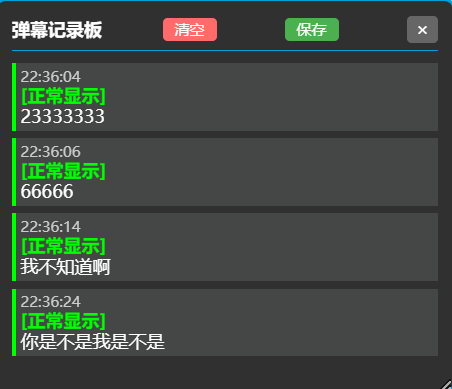
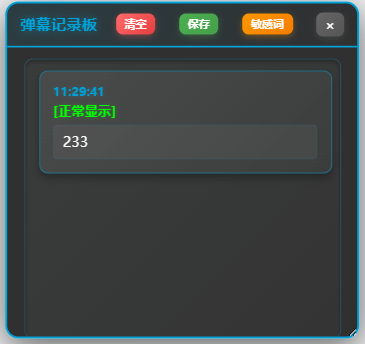
docs(readme): 更新 README 文档内容与结构
-重新组织功能介绍部分，将核心功能与新增功能分类展示
- 添加敏感词管理与高亮显示等 3.0 版本新功能说明
- 优化效果展示图片描述，新增管理页面与 CSV 导出示例
- 补充敏感词管理器使用方法和配置选项说明
- 更新代码实现与自定义配置部分，适配 3.0 新增功能
- 增加关于敏感词检测性能与本地存储限制的注意事项
- 删除重复内容，统一文档风格与格式

Changed region(s): [[0.0, 0.0, 1.0, 1.0], [0.9041, 0.2326, 0.9342, 0.4942], [0.9041, 0.1744, 0.9342, 0.2035]]

diff --git a/README.md b/README.md
@@ -1,3 +1,7 @@
+# 弹幕反诈脚本
+
+这是一个用于拦截和处理发送到 Bilibili 直播间的弹幕请求的脚本。它可以**检测弹幕发送**并在屏幕上显示相应的提示信息。提示你在直播间发送的**弹幕是否被秒删**，**被什么秒删**，有助于用户规避河蟹词，**避免看似发了弹幕结果主播根本看不到**，不被发送成功的谎言所欺骗！
+
 # 遥遥领先的阿瓦隆系统
 
 你可能遇到过一种情景，你明明**重复发送了很多次弹幕**，而且你也亲眼看到了弹幕**发送成功**在屏幕上显示，但是**主播就是不对你的弹幕有所回复**，哪怕是**没几个人的小主播**直播间。  
@@ -14,47 +18,35 @@
 
 [点我安装](https://greasyfork.org/zh-CN/scripts/516801-[哔哩哔哩直播]-弹幕反诈与防河蟹)
 
-# 弹幕反诈脚本
-
-这是一个用于拦截和处理发送到 Bilibili 直播间的弹幕请求的脚本。它可以**检测弹幕发送**并在屏幕上显示相应的提示信息。提示你在直播间发送的**弹幕是否被秒删**，**被什么秒删**，有助于用户规避河蟹词，**避免看似发了弹幕结果主播根本看不到**，不被发送成功的谎言所欺骗！  
-
-脚本修改自 TGSAN-哔哩哔哩直播弹幕反诈 ，增添了主播屏蔽弹幕发送失败时的相关信息提示，提示信息更加人性化。  
-
-[原脚本作者](https://greasyfork.org/zh-CN/scripts/488621-哔哩哔哩直播弹幕反诈。)
-
 ## 功能
 
 ### 核心功能
-- 拦截发送到 `api.live.bilibili.com/msg/send` 的弹幕请求。
-- 根据服务器返回的信息，判断弹幕是否发送失败，如果发送成功，则提示发送成功（**可在代码中关闭此回调**）。
-- 在弹幕发送失败时，在屏幕上显示提示信息（**仅在全屏模式生效**）。
-- 弹幕从左侧固定位置开始向右滚动，被**主播**吃掉为**蓝色**，被**系统**吃掉为**绿色**。可修改代码实现自定义颜色，支持16进制颜色代码和颜色名称。
-- 支持自定义弹幕。
-- **重要提示！！！系统权限高于主播**，当出现河蟹关键词时**系统会优先删除**，即便主播设置了系统同样的关键词。
+- **弹幕拦截检测**：拦截发送到 `api.live.bilibili.com/msg/send` 的弹幕请求
+- **智能状态判断**：根据服务器返回的信息，判断弹幕是否发送失败，如果发送成功，则提示发送成功（**可在代码中关闭此回调**）
+- **可视化提示**：在弹幕发送失败时，在屏幕上显示提示信息（**仅在全屏模式生效**）
+- **滚动动画**：弹幕从左侧固定位置开始向右滚动，被**主播**吃掉为**蓝色**，被**系统**吃掉为**绿色**。可修改代码实现自定义颜色，支持16进制颜色代码和颜色名称
+- **自定义弹幕**：支持自定义弹幕内容和样式
 
-### 2.0新增功能
-
-#### 1. 弹幕内容记录与输出
+### 弹幕记录与监控
 - **控制台输出**：所有发送的弹幕内容都会在浏览器控制台显示，包括：
   - 系统屏蔽弹幕：显示为 "系统屏蔽弹幕: [内容]"
   - 主播屏蔽弹幕：显示为 "主播屏蔽弹幕: [内容]"  
   - 正常弹幕：显示为 "正常弹幕: [内容]"
 - **实时监控**：监控每一条发送弹幕并对其核验，确保其成功发送成功
+- **浮动弹幕记录板**：
+  - **可视化记录**：在页面右上角显示浮动文本框，实时记录所有弹幕发送情况
+  - **智能分类**：用不同颜色标识弹幕状态
+    - 🔴 系统屏蔽（红色边框）
+    - 🟠 主播屏蔽（橙色边框）
+    - 🟢 正常显示（绿色边框）
+  - **时间戳记录**：每条记录都包含精确的发送时间
+  - **交互功能**：
+    - 可拖拽移动位置
+    - 可调整大小
+    - 一键清空记录
+    - 一键关闭面板
 
-#### 2. 浮动弹幕记录板
-- **可视化记录**：在页面右上角显示浮动文本框，实时记录所有弹幕发送情况
-- **智能分类**：用不同颜色标识弹幕状态
-  - 🔴 系统屏蔽（红色边框）
-  - 🟠 主播屏蔽（橙色边框）
-  - 🟢 正常显示（绿色边框）
-- **时间戳记录**：每条记录都包含精确的发送时间
-- **交互功能**：
-  - 可拖拽移动位置
-  - 可调整大小
-  - 一键清空记录
-  - 一键关闭面板
-
-#### 3. 弹幕记录保存功能
+### 数据保存与分析
 - **一键保存**：点击"保存"按钮即可下载所有弹幕记录
 - **详细统计**：保存文件包含完整的统计信息
   - 系统屏蔽弹幕数量
@@ -63,6 +55,25 @@
   - 总记录数
 - **文件格式**：保存为UTF-8编码的文本文件，文件名包含时间戳
 - **可读性强**：格式化输出，便于后续分析和查看
+
+### 敏感词管理（3.0版本新增）
+- **智能检测**：自动检测弹幕中的敏感词，支持模糊匹配和精确匹配
+- **可视化高亮**：敏感词在弹幕记录中以高亮形式显示，便于快速识别
+- **自定义词库**：支持添加、删除自定义敏感词，构建个人专属词库
+- **配置管理**：提供丰富的配置选项
+  - 启用/禁用敏感词检测
+  - 区分大小写设置
+  - 模糊匹配开关
+  - 记录板容量限制
+- **本地存储**：配置自动保存到本地，刷新页面后配置不丢失
+- **一键重置**：支持一键恢复默认配置和敏感词列表
+
+### 敏感词高亮显示（3.0版本新增）
+- **实时高亮**：被屏蔽的弹幕中的敏感词会以特殊样式高亮显示
+- **多色标识**：使用黄色背景、红色文字、加粗字体等样式突出显示
+- **智能识别**：自动识别弹幕中的敏感词并标记位置
+- **可定制样式**：支持自定义高亮颜色、字体样式等显示效果
+- **检测提示**：在弹幕记录中显示"⚠ 检测到敏感词"提示信息
 
 ## 效果展示
 
@@ -75,8 +86,12 @@
 - ![全屏效果展示](./img/全屏效果展示.png)
 - 悬浮提示框示例  
 - ![悬浮提示框](./img/提示框.png)
-- 保存文件示例  
+- 配置管理示例
+- ![管理页面](./img/管理页面.png)
+- 保存文件示例(txt)  
 - ![保存文件示例](./img/保存示例.png)
+- 保存文件示例(csv)
+- ![保存文件示例](./img/csv导出.png)
 
 
 ## 使用方法
@@ -109,7 +124,22 @@
   - 每条弹幕的详细信息和时间戳
   - 完整的统计数据分析
   - 便于阅读的格式化输出
-- **文件命名**：自动生成带时间戳的文件名，如 `弹幕记录_2024-01-01T12-00-00.txt`
+
+#### 敏感词管理器使用（3.0版本新增）
+- **打开管理器**：点击弹幕记录板中的"敏感词"按钮打开管理界面
+- **添加敏感词**：
+  - 在输入框中输入要添加的敏感词
+  - 点击"添加"按钮或按回车键确认
+  - 支持中文、英文、数字等各种字符
+- **删除敏感词**：在敏感词列表中点击对应词条右侧的"删除"按钮
+- **配置选项**：
+  - **启用检测**：勾选后启用敏感词检测功能
+  - **区分大小写**：勾选后敏感词检测会区分大小写
+  - **模糊匹配**：勾选后支持部分匹配（包含检测）
+  - **默认显示记录板**：勾选后页面加载时自动显示弹幕记录板
+  - **记录容量**：设置弹幕记录板最大保存记录数（默认50条）
+- **保存配置**：点击"保存配置"按钮保存所有设置
+- **重置设置**：点击"重置默认"按钮恢复所有默认配置
 
 ## 代码说明
 
@@ -118,12 +148,12 @@
 - **拦截请求**: 重写 `fetch` 函数以拦截特定的请求，用于检测弹幕是否发送成功。
 - **显示信息**: 使用固定位置的 `div` 元素在屏幕上显示消息，并通过 `requestAnimationFrame` 实现从左到右的滚动效果。
 
-### 2.0新增功能实现
-- **弹幕内容提取**: 在修改响应数据前解析 `mode_info.extra` 字段，提取弹幕内容
-- **浮动面板**: 使用动态创建的 DOM 元素构建可交互的记录面板
-- **拖拽功能**: 通过鼠标事件实现面板的拖拽移动
-- **数据保存**: 使用 Blob API 和 URL.createObjectURL 实现文件下载功能
-- **智能统计**: 实时统计各类弹幕数量，提供详细的数据分析
+### 3.0新增功能实现
+- **敏感词检测引擎**: 实现高效的敏感词检测算法，支持模糊匹配和精确匹配
+- **高亮显示系统**: 使用HTML标签和CSS样式实现敏感词的可视化高亮
+- **配置管理系统**: 基于localStorage的配置持久化存储和实时更新机制
+- **交互式管理界面**: 使用模态框和动态DOM操作构建用户友好的管理界面
+- **智能词库管理**: 支持动态添加、删除敏感词，并提供重复检测和验证机制
 
 ## 自定义配置
 
@@ -134,17 +164,15 @@
 - **起始位置**: 同上，详见代码注释。
 - **重复次数**: 同上，详见代码注释。
 
-### 2.0新增功能配置
-- **记录板样式**: 可修改 `createDanmuLogBox` 函数中的样式参数
-  - 位置：`top` 和 `right` 属性
-  - 大小：`width` 和 `height` 属性
-  - 颜色：`background`、`border`、`color` 等属性
-- **记录数量限制**: 可调整 `logDanmuToBox` 函数中的最大记录数（默认50条，可自行修改）
-- **保存文件格式**: 可修改 `saveDanmuLogs` 函数中的文件内容格式（默认txt）
-- **颜色标识**: 可自定义不同类型弹幕的显示颜色
-  - 系统屏蔽：`#ff6b6b`（红色）
-  - 主播屏蔽：`#ffa500`（橙色）
-  - 正常显示：`#00ff00`（绿色）
+### 3.0新增功能配置
+- **敏感词高亮样式**: 可修改 `sensitiveWordsConfig.highlightStyle` 对象中的样式参数
+- **默认敏感词列表**: 可修改 `sensitiveWordsConfig.defaultConfig.words` 数组添加默认敏感词
+- **敏感词检测配置**: 可调整 `sensitiveWordsConfig.defaultConfig` 中的默认配置
+  - `enabled`: 是否默认启用敏感词检测（默认 `true`）
+  - `caseSensitive`: 是否区分大小写（默认 `false`）
+  - `fuzzyMatch`: 是否启用模糊匹配（默认 `true`）
+  - `showLogBoxByDefault`: 是否默认显示记录板（默认 `true`）
+  - `logBoxCapacity`: 记录板容量限制（默认 `50`）
 
 ## 注意事项
 
@@ -152,12 +180,12 @@
 - 本脚本仅用于学习目的，请勿用于非法用途。
 - 使用本脚本可能会违反某些网站的使用条款，请谨慎使用。
 
-### 2.0新增功能注意事项
-- **记录板显示**：记录板会在发送第一条弹幕时自动创建，且记录版不具备记忆功能，如果页面刷新会重新创建，同时原有数据或全部丢失
-- **数据持久性**：除用户手动保存，脚本不会在本地记录弹幕信息，弹幕记录仅在当前会话有效，刷新页面后记录会清空
-- **性能影响**：记录板最多保存50条记录，超出会自动删除最旧的记录，可自行修改最大保存记录用来保存更多记录
-- **浏览器兼容性**：保存功能需要现代浏览器支持 Blob API
-- **控制台输出**：建议在开发者工具中查看控制台输出，以获得完整的弹幕信息
+### 注意事项
+- **敏感词检测性能**：敏感词检测采用高效的算法，但大量敏感词可能影响性能，建议合理控制词库大小
+- **本地存储限制**：敏感词配置保存在浏览器本地存储中，清除浏览器数据会丢失自定义配置
+- **敏感词匹配**：模糊匹配模式下，敏感词作为子字符串进行检测，可能产生误报，建议根据实际需要调整
+- **高亮显示兼容性**：敏感词高亮使用HTML标签实现，在某些特殊环境下可能显示异常
+- **配置同步**：敏感词配置仅在当前浏览器中有效，不同浏览器或设备间不会自动同步
 
 ## 贡献
 
